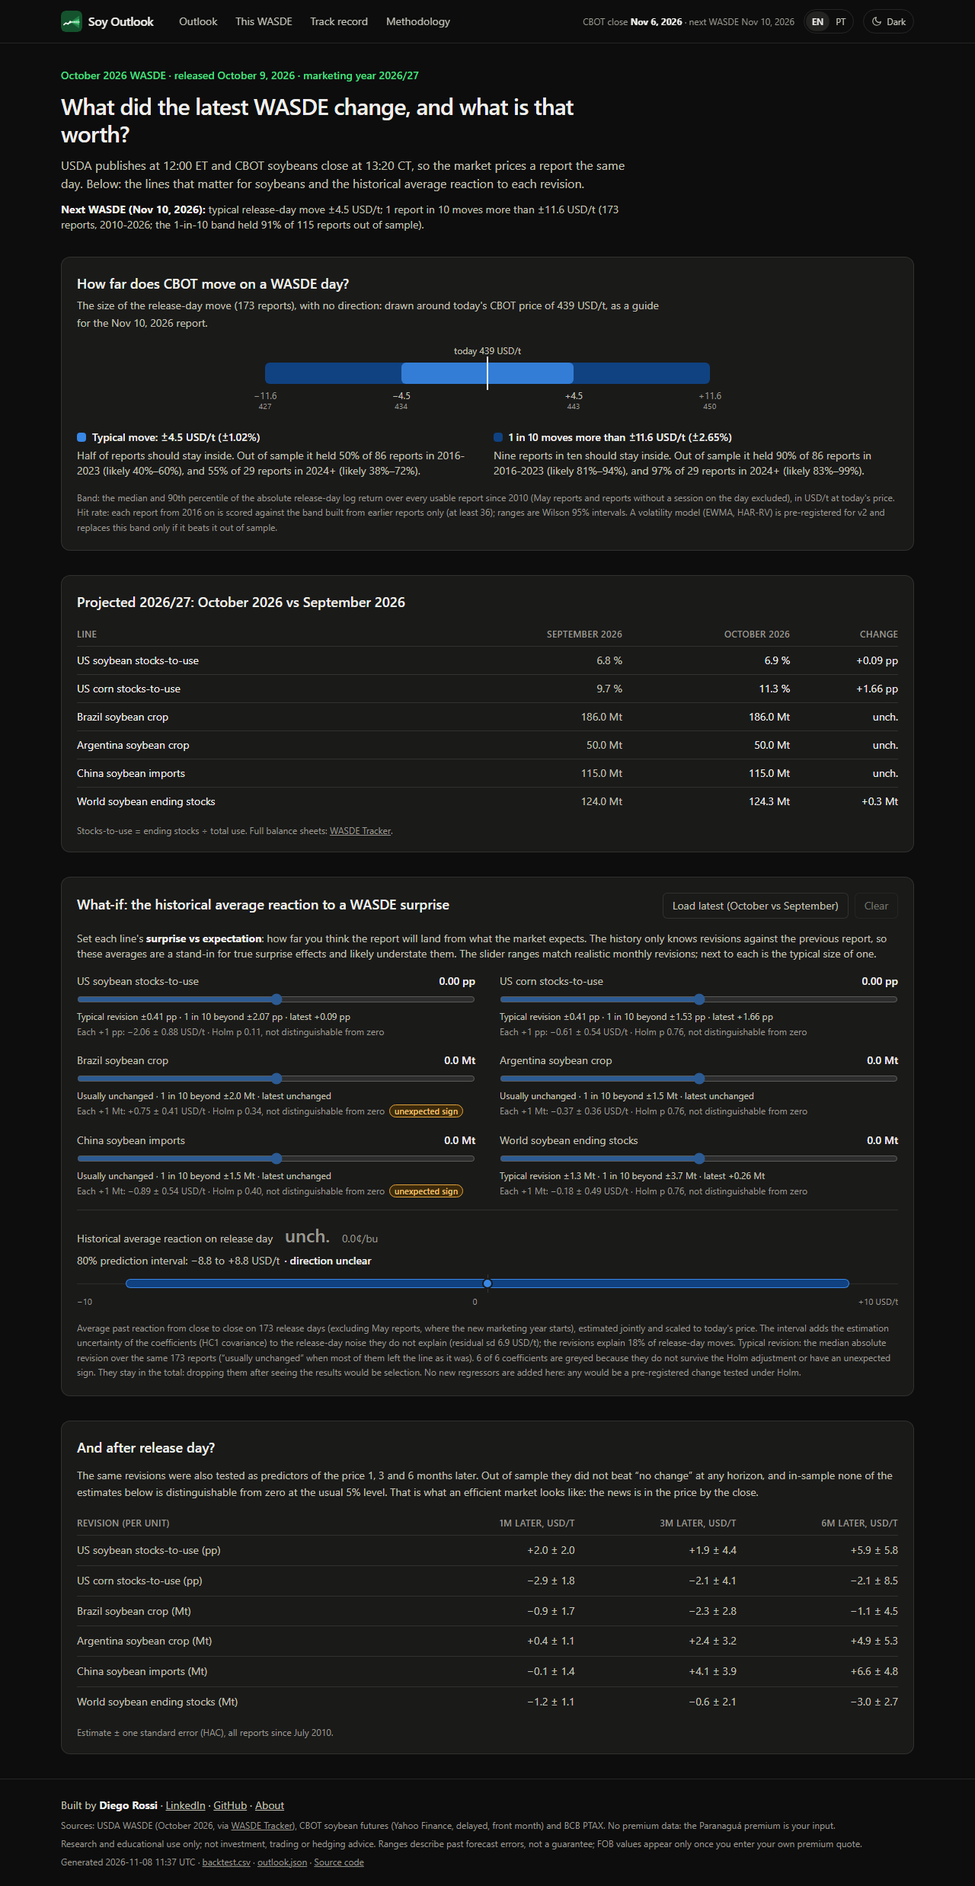
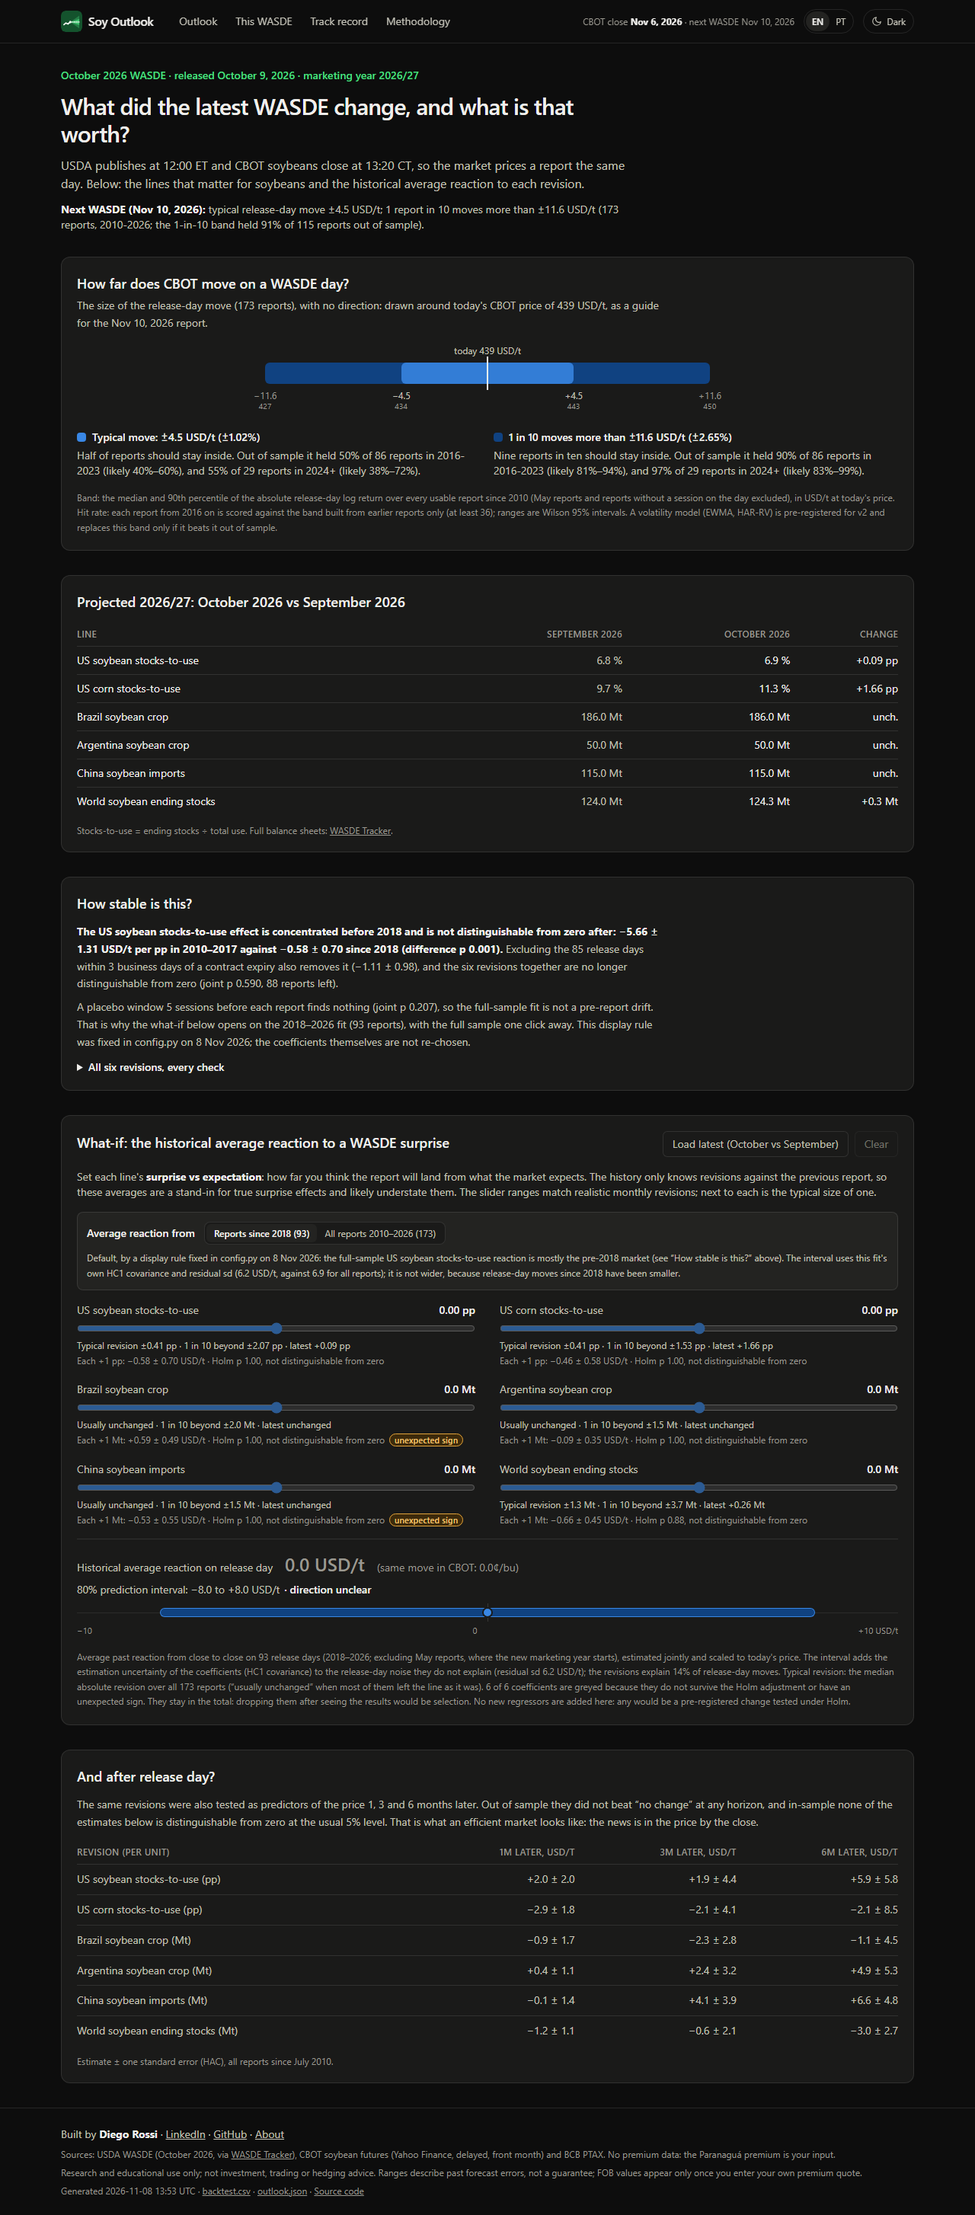
docs: finalize the polish round (live data, trimmed README, fresh screenshots)
- Live run on the 6 Nov 2026 close: every published number reproduced; the
  archive record matches outlook.json; refresh meta and run manifest.
- README: numbers re-checked against metrics.csv and track_record.json;
  Pages and Development cut to short tables and bullets, with the contract,
  input-pin and lineage detail moved to docs/REFRESH.md (plus the P23b
  revision rule there). Test count updated to 110.
- shots spec: phone captures clipped to the viewport (844 px); use fullPage
  so they show the first two screens as intended. All screenshots regenerated.
- docs/PLAN.md: short "Polish round" note with open owner decisions.

Changed region(s): [[0.0625, 0.0, 0.9375, 0.9952], [0.6562, 0.0, 0.6875, 0.0311], [0.3125, 0.311, 0.3438, 0.3421]]

diff --git a/web/e2e/shots.spec.ts b/web/e2e/shots.spec.ts
@@ -26,7 +26,7 @@ for (const [name, url] of PAGES) {
       await page.goto(url);
       await page.waitForTimeout(1200);
       // The first two screens: what a phone visitor sees before scrolling far.
-      await page.screenshot({ path: `${DIR}/${name}-mobile-${theme}.png`, clip: { x: 0, y: 0, width: 390, height: 1688 } });
+      await page.screenshot({ path: `${DIR}/${name}-mobile-${theme}.png`, fullPage: true, clip: { x: 0, y: 0, width: 390, height: 1688 } });
     });
   }
 }
@@ -43,7 +43,7 @@ for (const [theme, width] of [["light", 1280], ["dark", 390]] as const) {
     await page.goto("/");
     await page.waitForTimeout(1200);
     if (width === 390) {
-      await page.screenshot({ path: `${DIR}/outlook-pt-mobile-${theme}.png`, clip: { x: 0, y: 0, width: 390, height: 1688 } });
+      await page.screenshot({ path: `${DIR}/outlook-pt-mobile-${theme}.png`, fullPage: true, clip: { x: 0, y: 0, width: 390, height: 1688 } });
     } else {
       await page.screenshot({ path: `${DIR}/outlook-pt-${theme}.png`, fullPage: true });
     }

diff --git a/README.md b/README.md
@@ -74,12 +74,12 @@ Everything above was removed. The old notebooks stay in `notebooks/archive/` for
 
 ## Pages
 
-| Page | Question it answers |
-|---|---|
-| **Outlook** | How far could CBOT (¢/bu, USD/t, R$ per sack) move in 1, 3 and 6 months, within an 80% and a 95% range? FX is your input, and FOB appears once you type a premium (empty by default, kept in your browser only). A decision panel (side, tonnes, hedge ratio, USD or BRL) turns the ranges into downside vs selling today at the 1-in-10 and rough 1-in-40 levels, from a published 5–95% quantile grid; it is labelled illustrative, range-based not VaR, CBOT only with the basis unhedged, and shows the 6-month under-coverage inline. No target-price probability and no expected shortfall (each 95% tail rests on about 1.5 of 60 overlapping errors). The chart shows the ranges as whiskers next to 18 months (or 3 years) of CBOT closes, with today and the next WASDE marked; a folded stress replay applies five pre-registered past shocks to today's price (illustrative scenarios, not probabilities). |
-| **This WASDE** | How far does CBOT usually move on release day? The empirical band (±4.5 USD/t typical, ±11.6 for 1 report in 10) is drawn around today's price with its out-of-sample hit rate: scored on earlier reports only, the 1-in-10 band held 90% of 86 reports in 2016–2023 and 97% of 29 in 2024+. What changed in the latest report? What has the market paid on release day for each revision? Includes a what-if calculator with realistic slider ranges, the typical size of each revision, and a *Load latest* button that fills in the latest report's revisions, always shown with its 80% prediction interval. A *How stable is this?* block shows the placebo, split-sample and roll-exclusion checks in plain language, and the what-if opens on the 2018+ fit (toggle: all reports). |
-| **Track record** | Did any model beat "no change"? A one-line verdict with the smallest effect the tests could have detected, where the 80% range missed (below vs above), a dot plot of each model's error against no change, and past forecasts against actual prices (holdout shaded, misses and crop-roll windows marked). The DM/CW tests, Kupiec/Christoffersen calibration tests and the range-method comparison sit in a **For statisticians** fold. |
-| **Methodology** | Plain-language method, units, limitations and the audit of v1. |
+| Page | Question it answers | What is on it |
+|---|---|---|
+| **Outlook** | How far could CBOT move in 1, 3 and 6 months? | 80% and 95% ranges in ¢/bu, USD/t or R$/sack, each labelled with its measured hit rate. FX is an input; FOB appears only once you type a premium (empty by default, kept in your browser). A decision panel shows downside vs selling today at 1-in-10 and rough 1-in-40 (illustrative, range-based, not VaR). Whisker chart, folded stress replay. |
+| **This WASDE** | How much does CBOT move on release day, and on what? | Release-day band (±4.5 USD/t typical, ±11.6 for 1 report in 10) with its out-of-sample hit rate, the latest revisions, a what-if with an 80% prediction interval (opens on the 2018+ fit), and a *How stable is this?* block. |
+| **Track record** | Did any model beat "no change"? | One-line verdict with the minimum detectable effect, misses by tail, a dot plot of errors vs no change, past forecasts vs prices, published outlooks vs outcomes. Formal tests sit in a **For statisticians** fold. |
+| **Methodology** | How was it built, and what are the limits? | Method, units, limitations and the v1 audit. |
 
 | This WASDE | Track record |
 |---|---|
@@ -153,26 +153,23 @@ The repository ships the latest `web/public/data`, so `cd web && npm ci && npm r
 
 ## Development
 
-```bash
-make test     # pytest: no-look-ahead, purging, intervals, stats, units, ingest checks, JSON contract, end to end
-make test-fast   # the same without the end-to-end pipeline runs (marked slow), about 6 s
-make schema   # after changing publish/schema.py: re-export JSON Schema and regenerate web/lib/types.generated.ts
-make lint     # ruff, mypy, eslint, tsc
-make e2e      # Playwright on desktop and mobile: copy-vs-JSON contract, stale banner (pinned clock), archive, metadata, no horizontal scroll
-cd web && npm run test:unit   # vitest: unit conversion, FX parsing, labels, the slim track-record payload, what-if interval
-cd web && npm run size        # after a build: HTML <= 100 KB per page, first-load JS budget, ECharts never in first-load scripts
-make ci-offline  # the hermetic CI run: offline pipeline on synthetic fixtures, then the validation gate
-```
+| Command | What it runs |
+|---|---|
+| `make test` / `make test-fast` | pytest with coverage / without the slow end-to-end runs (about 6 s) |
+| `make lint` | ruff, mypy, eslint, tsc |
+| `make e2e` | Playwright on desktop and mobile: copy-vs-JSON contract, axe, stale banner, archive, no horizontal scroll |
+| `make schema` | after editing `publish/schema.py`: re-export JSON Schema and regenerate `web/lib/types.generated.ts` |
+| `make ci-offline` | the hermetic CI run: offline pipeline on synthetic fixtures, then the validation gate |
+| `cd web && npm run test:unit` | vitest: units, FX parsing, labels, what-if interval, stability copy |
+| `cd web && npm run size` | after a build: per-page HTML and first-load JS budgets, ECharts never in first-load scripts |
 
-Two workflows close the data loop (details and owner setup in [docs/REFRESH.md](docs/REFRESH.md)):
+How data reaches the site, in short (details and owner setup in [docs/REFRESH.md](docs/REFRESH.md)):
 
-- **`ci.yml`, on every push and PR, is hermetic.** Every action is pinned by commit SHA (Dependabot keeps the pins current). It installs exactly `uv.lock`, runs lint, mypy (with pandas-stubs) and pytest on Python 3.11 and 3.12, builds the multi-stage, non-root Docker image, and runs `soyforecast run --offline` on committed synthetic fixtures behind a dead-proxy network tripwire, then the site build and Playwright against the committed `web/public/data`.
-- **`refresh.yml`, on weekdays after the CBOT close.** The cron is DST-safe, with a Chicago-clock guard in code, and a second pass runs on WASDE days. It does a live run, then the validation gate (`soyforecast validate`: shape, freshness, row deltas, append-only archive), then the site build and e2e on the new data. It finishes with a bot PR that auto-merges. Only this job can write, and it opens a `data-alert` issue when a run is stale, degraded or failed.
-- **On the site, a banner appears when the data is stale.** That means the close is more than 3 business days old, a newer WASDE is out, or the refresh fell back to cache. The as-of date stays in the header on mobile.
-- **The JSON the site reads is a checked contract.** `src/soyforecast/publish/schema.py` defines every published file as a pydantic model (unknown keys, nulls where numbers are expected, NaN, non-monotone quantiles and missing horizons are all rejected). `publish` validates before writing, writes into a staging folder, re-checks it against the live copy (as-of close and latest WASDE never go backwards) and only then swaps it in with `os.replace`; a failure leaves the published data untouched (exit code 4). `soyforecast export-schema` writes the models as JSON Schema to `web/lib/schema/`; `npm run gen:types` turns that into `web/lib/types.generated.ts`, and `web/lib/data.ts` validates every file against the same schema at build time, so a wrong `schema_version` or shape fails `next build`. CI fails when the schema or the generated types are stale. Generated types rather than zod: zod would be a second, hand-written copy of the contract in TypeScript, while generated types and the schema check both come from the one pydantic definition.
-- **Inputs are pinned and checked before they replace the cache.** The WASDE history is pinned to one WASDE Tracker release tag and its sha256 in `data/wasde.lock.json`; other bytes under that tag are rejected, and only the scheduled refresh moves the pin (`run --update-pin`), as a reviewable diff in its PR. A new WASDE file must keep every column, numeric values and unique keys, and may not lose reports. A PTAX download must stay within 1-15 BRL/USD, move less than 15% a day and end no earlier than the cache. A rejected or failed download falls back to the cache and marks the run degraded. `--offline` never touches the network and fails with exit code 3 when a cache is missing (exit codes are listed in `src/soyforecast/errors.py`).
-- **Every run says what produced it.** `web/public/data/run_manifest.json` lists the sha256 of every input file, the WASDE pin and whether the file matched it, the hash of `uv.lock`, the git commit (and whether the code differed from it), and the versions of the packages that shape a forecast. Every input a run uses, downloaded or read from the cache, is also kept as a dated, content-hashed snapshot in `data/bronze/snapshots/` (identical bytes are stored once, the last 30 per source are kept), and the manifest names it. In the Docker image, which has no git checkout, the commit comes from the `GIT_SHA` build argument and `uv.lock` ships next to the virtualenv, so a published outlook can be rebuilt from exactly its inputs.
-- **Every published outlook is archived, append-only,** in `web/public/data/archive/`. The Track record page scores each one once its target date passes. If the vendor later revises a close, the republished numbers go into a new revision record (`<date>.r2.json`) next to the original; nothing is rewritten, and only the first-published record is scored. This published-vs-outcome table is the project's only genuinely unseen out-of-sample record.
+- **`ci.yml` (push, PR) is hermetic:** SHA-pinned actions, `uv.lock`, Python 3.11 and 3.12, Docker build, an offline pipeline run behind a dead-proxy tripwire, then the site build and Playwright.
+- **`refresh.yml` (weekdays after the CBOT close, plus a WASDE-day pass):** live run → `soyforecast validate` gate → site build and e2e → bot PR with auto-merge; a `data-alert` issue when a run is stale, degraded or failed.
+- **A checked contract:** every published file is a pydantic model, exported to JSON Schema and generated TypeScript types and validated again in `next build`; publish is staged and swapped atomically.
+- **Pinned, traceable inputs:** WASDE pinned by release tag and sha256, PTAX bounds checks, cache fallback marked as degraded, and a `run_manifest.json` with input hashes, the `uv.lock` hash and the git commit.
+- **Append-only outlook archive:** each published outlook is kept and scored once its date passes; a revised close goes into `<date>.rN.json` and only the first record is scored.
 
 ```
 ├── src/soyforecast/
@@ -182,7 +179,7 @@ Two workflows close the data loop (details and owner setup in [docs/REFRESH.md](
 │   ├── evaluation/   backtest.py (purging, range methods and their rule, centring rule, calibration stats, champion) · stats.py (DM-HLN, Clark-West, Holm, HAC / block-bootstrap hit-rate CIs, Kupiec, Christoffersen, MDE, Pesaran-Timmermann)
 │   ├── publish/      schema.py (pydantic site contract) · web_json.py (validated, staged publish) · archive.py (append-only outlook archive) · lineage.py (run manifest) · validate.py (refresh gate)
 │   ├── pipeline.py · cli.py · errors.py (exit codes) · config.py (pre-registered horizons, splits, features) · freshness.py (close guard, source status) · fixtures.py · units.py · logs.py
-├── tests/            106 tests: no look-ahead, intervals, event study, ingest checks (httpx.MockTransport), JSON contract, close guard, gate, archive
+├── tests/            110 tests: no look-ahead, intervals, event study, ingest checks (httpx.MockTransport), JSON contract, close guard, gate, archive
 │   └── fixtures/bronze/  synthetic WASDE, CBOT and PTAX inputs for the hermetic CI run
 ├── web/              Next.js static site (Outlook, This WASDE, Track record, Methodology)
 │   └── scripts/      brand-assets.mjs: static social card (og.png) and icons from their sources

diff --git a/docs/REFRESH.md b/docs/REFRESH.md
@@ -23,7 +23,7 @@ This is how new data reaches the site, what stops bad data, and what the reposit
 
 ## Validation gate (`soyforecast validate`)
 
-- **Shape.** Every file exists and `schema_version` matches. There is one horizon per configured horizon, each with finite, monotone quantiles. History, metrics, paths and WASDE lines are non-empty. This is a structural check until the pydantic contract (P25) replaces it.
+- **Shape.** Every file exists and `schema_version` matches. There is one horizon per configured horizon, each with finite, monotone quantiles. History, metrics, paths and WASDE lines are non-empty. The pydantic site contract (P25) enforces it.
 - **Freshness.** The as-of close may be at most `STALE_CLOSE_BDAYS` (3) business days old. `--allow-stale` reports an old close without failing on it.
 - **Deltas against the previously published copy.**
   - `as_of_close` and the latest WASDE never go backwards.
@@ -57,8 +57,15 @@ When a refresh fails, including a failed gate, when its close is stale (even on 
 - If the same close is published again with a newer WASDE report (the second pass on a release day), that outlook is archived too, as `archive/<as_of_close>_<wasde month>.json`.
 - An outlook built more than `ARCHIVE_MAX_LAG_BDAYS` (1) business day after its close, such as an offline rebuild on an old cache, is published but not archived. Later closes are already known by then, so archiving it would backfill the record with hindsight.
 - `archive/index.json` is rebuilt on every run. Each horizon's outcome is the last CBOT close on or before its target date, marked `inside80` and `inside95`, and `pending` until that date passes.
+- **Revisions (P23b).** If a later run sees a revised close for an archived date, it writes `<date>.r<N>.json` (`revision`, `revises`, `revision_reason`) next to the original, which is never rewritten. `check_revision_chain` in `publish/validate.py` rejects a revision whose number or `revises` link is wrong, and only the first-published record is scored. The newest archive record must match `outlook.json`; publish, `soyforecast validate`, a pytest and an e2e test check this.
 - The Track record page shows these rows under "Published outlooks against what happened".
 - None of these rows was used to choose a model or a range method. Unlike the backtest, where I had seen the 2024–25 holdout prices, this is the only genuinely unseen out-of-sample record. The first 1-month outcome is due a month after the first archived close (2026-11-06).
+
+## Contract, input pins and lineage
+
+- **The JSON the site reads is a checked contract.** `src/soyforecast/publish/schema.py` defines every published file as a pydantic model (unknown keys, nulls where numbers are expected, NaN, non-monotone quantiles and missing horizons are all rejected). `publish` validates before writing, writes into a staging folder, re-checks it against the live copy (as-of close and latest WASDE never go backwards) and only then swaps it in with `os.replace`; a failure leaves the published data untouched (exit code 4). `soyforecast export-schema` writes the models as JSON Schema to `web/lib/schema/`; `npm run gen:types` turns that into `web/lib/types.generated.ts`, and `web/lib/data.ts` validates every file against the same schema at build time, so a wrong `schema_version` or shape fails `next build`. CI fails when the schema or the generated types are stale. Generated types rather than zod: zod would be a second, hand-written copy of the contract.
+- **Inputs are pinned and checked before they replace the cache.** The WASDE history is pinned to one WASDE Tracker release tag and its sha256 in `data/wasde.lock.json`; other bytes under that tag are rejected, and only the scheduled refresh moves the pin (`run --update-pin`), as a reviewable diff in its PR. A new WASDE file must keep every column, numeric values and unique keys, and may not lose reports. A PTAX download must stay within 1-15 BRL/USD, move less than 15% a day and end no earlier than the cache. A rejected or failed download falls back to the cache and marks the run degraded. `--offline` never touches the network and fails with exit code 3 when a cache is missing (exit codes are listed in `src/soyforecast/errors.py`).
+- **Every run says what produced it.** `web/public/data/run_manifest.json` lists the sha256 of every input file, the WASDE pin and whether the file matched it, the hash of `uv.lock`, the git commit (and whether the code differed from it), and the versions of the packages that shape a forecast. Every input is also kept as a dated, content-hashed snapshot in `data/bronze/snapshots/` (identical bytes stored once, the last 30 per source kept). In the Docker image, which has no git checkout, the commit comes from the `GIT_SHA` build argument and `uv.lock` ships next to the virtualenv.
 
 ## What the owner must enable
 

diff --git a/docs/PLAN.md b/docs/PLAN.md
@@ -105,6 +105,19 @@ Twelve reviewer lenses (quant, stats, trader, farmer, risk, UX, dataviz, fronten
 
 The live run re-fetched the 6 Nov 2026 close as 1,193.75¢/bu; an earlier local run from cached prices had archived 1,189¢/bu. That archive file was created on this unreleased branch and never deployed, so it was not a published record: polish unit C (P23b) regenerated it from the current publish, and the archive now matches the outlook. From here on the rule is mechanical. The newest archive record of the outlook on the site must match outlook.json (the publish step and `soyforecast validate` both check this, plus a pytest and an e2e contract test). When a later run sees a revised close for an archived date, it writes `<date>.r<N>.json` (`revision`, `revises`, `revision_reason`) next to the original, which is never rewritten. The scored tally uses only the first-published record.
 
+## Polish round (2026-11-08)
+
+A re-review by the same twelve lenses averaged 8.0/10, up from round one. Four polish units followed, each implemented and then audited:
+
+- **A · premium as user input only.** The seed premium table, `derive-premium`, the illustrative FOB fields and every premium file are gone; FOB appears only after the user types a quote (kept in the browser). Git history still holds the old files (see DATA_LICENSES.md); purging them needs `filter-repo` and a force-push, an owner decision.
+- **B · Outlook decluttered.** One-sentence hero, four-line cards, a single "How to read these ranges" fold, chart under the cards in the page unit, pt-BR month labels, a side-aware tail flag and a target readout tied to the unit it was typed in. The hit-rate pill keeps the pre-registered warn rule (amber only more than 5 pp below nominal).
+- **C · archive consistency (P23b).** The newest archive record must equal `outlook.json`; a revised close becomes `<date>.rN.json` with a checked revision chain, and only the first record is scored.
+- **D · WASDE stability.** Placebo, split-sample and roll-exclusion checks shown in plain language; the what-if opens on the 2018+ fit by a display rule fixed in `config.py` (`WHATIF_DEFAULT_FIT`) before it was viewed. No widening was added after seeing the intervals.
+
+Finalisation: a live run on the 6 Nov 2026 close reproduced every published number (only `meta.json` and `run_manifest.json` timestamps changed) and the archive matches the outlook. README numbers were checked against `metrics.csv` and `track_record.json`; its Pages and Development sections were cut to short tables, with the engineering detail moved to [REFRESH.md](REFRESH.md). Screenshots were regenerated (the phone captures now show the first two screens, as intended). Checks: ruff, mypy, pytest 110, eslint, tsc, check:types, vitest 52, build, size budget, Playwright 148 including axe.
+
+Still open for the owner: the git-history purge, the hit-rate pill threshold, an explicit instability widening for the what-if (needs a new pre-registered rule), and the v2.1 contract-consistent targets.
+
 ## Definition of done
 Static Next.js site with real data, an honest README with backtest numbers and screenshots, `docker compose up`,
 CI (Python checks → live pipeline → site build + Playwright), tests for no look-ahead.
